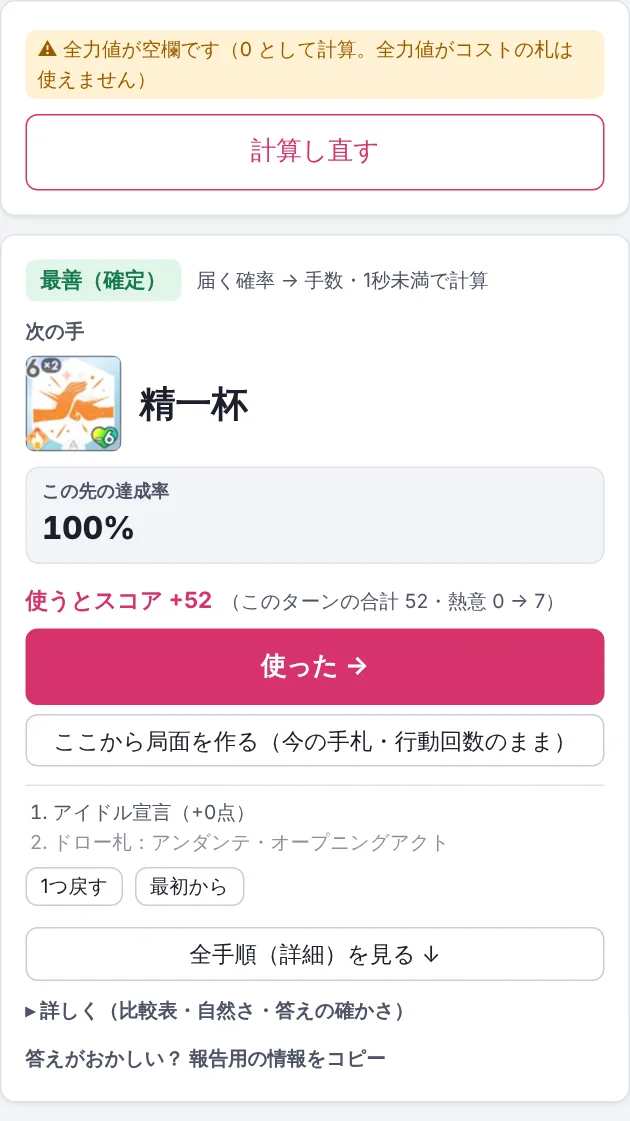
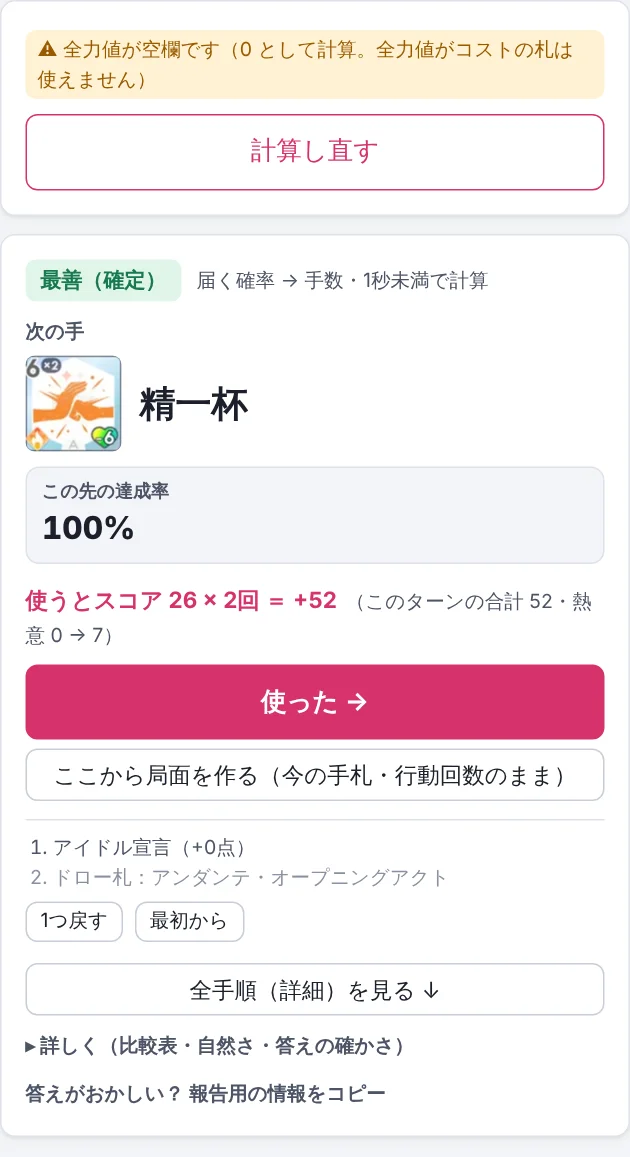
Solitaire Lab 1.14.4

diff --git a/js/answer.js b/js/answer.js
@@ -165,13 +165,7 @@ function resultView(R, rerender, {checkList} = {}) {
         R.setup && deck()?.id === R.deckId && h('button.big.pri.wide', {disabled: making, onclick: () => makePhase(R, steps, rerender, false)}, making ? '作っています…' : '次のターンの局面を作る →'),
         makeErr && h('p.warnline', '作れませんでした：' + makeErr));
     } else if (waiting) {
-      if (node.edges.length > 6 && node.edges.some(e => e.drawn.length >= 2)) add(...drawPicker(node, push, steps.length, rerender));
-      else add(h('div.lbl', '何を引きましたか？'),
-        h('p.hint', '使った後の手札（色の枠＝ドロー札）'),
-        h('div.draws', node.edges.map((e, i) => h('button.drawbtn', {onclick: () => push({type: 'draw', i, label: drawnText(e.drawn)})},
-          h('div.dpics', (e.hand || e.drawn).slice(0, 6).map(x => h('span.hcard', {class: x.isNew !== false ? 'new' : 'old'}, pic('cards', x.id, x.name, 34)))),
-          h('b', drawnText(e.drawn)),
-          e.hand && h('span.handtxt', '手札：' + e.hand.map(x => x.name).join('・'))))));
+      add(...drawPicker(node, push, steps.length, rerender));   // いつも1枚ずつ選ぶ（1.14.4、利用者の決定。前は組み合わせが7通り以上のときだけで、それ以外は手札の一覧）
     } else {
       if (steps.length) add(h('div.lbl', '次の手'), h('div.nmain', {}, node.icon ? pic(node.icon.kind, node.icon.id, node.act, 64) : null, h('div.ntext', node.act)),
         h('div.kpis', {}, kpi('この先の達成率', pct(node.p))));
@@ -234,7 +228,7 @@ function drawPicker(node, push, key, rerender) {
     h('p.hint', pick.ids.length ? `${pick.ids.length + 1}枚目は？（順は関係ありません）` : '引いた札を1枚ずつ選んでください（順は関係ありません）'),
     pick.ids.length ? h('div.row.picked', {}, h('span', '選んだ札：' + pick.ids.map(id => names.get(id)).join('・')), h('button.mini', {onclick: () => { pick.ids.pop(); rerender(); }}, '1つ戻す')) : null,
     h('div.draws.chips', ids.map(id => h('button.drawbtn', {onclick: () => choose(id)}, pic('cards', id, names.get(id), 40), h('b', names.get(id))))),
-    ...exact.map(c => h('button.wide', {onclick: () => go(c)}, c.e.drawn.length ? `これで全部（${drawnText(c.e.drawn)}）` : 'ドロー札なし'))];
+    ...exact.map(c => h('button.wide', {onclick: () => go(c)}, (c.e.drawn.length ? `これで全部（${drawnText(c.e.drawn)}）` : 'ドロー札なし') + (exact.length > 1 && c.e.hand ? `　手札：${c.e.hand.map(x => x.name).join('・')}` : '')))];
 }
 
 // もう一方の答えの1行。押すと主の答えと入れ替える（局面・予算などの共通の項目は残す）

diff --git a/manual/index.html b/manual/index.html
@@ -51,7 +51,7 @@
 <section class="slide cover">
   <h1>Solitaire Lab 詳細マニュアル</h1>
   <div class="sub">学園アイドルマスターの「ソリティア」で、<br>どの順番で札を使えば目標点に届きやすいかを教えてくれるツールです。</div>
-  <div class="ver">版 1.14.3 ・ ← → キー、または画面の左右を押してページをめくります</div>
+  <div class="ver">版 1.14.4 ・ ← → キー、または画面の左右を押してページをめくります</div>
 </section>
 
 <section class="slide">
@@ -259,7 +259,7 @@
       <li>次の手の下に「<b>使うとスコア</b>」（例：23,370 × 5回 ＝ +116,850）が出ます。ゲームの点と見比べられます。</li>
       <li>ゲームで、表示された札を使います。</li>
       <li>「<b>使った</b>」を押します（ドリンクは「飲んだ」）。</li>
-      <li>札を引いたときは「何を引きましたか？」と表示されます。1枚引いたときは、ゲームの手札と同じものを選びます（新しく来た札には色の枠）。2枚以上引いて組み合わせが多いときは、引いた札を1枚ずつ選びます（順は関係ありません）。</li>
+      <li>札を引いたときは「何を引きましたか？」と表示されます。引いた札を1枚ずつ選びます（順は関係ありません。1つに決まると自動で次へ進みます）。</li>
       <li>次の手が表示されます。これをくり返します。</li>
     </ol>
     <div class="tip">ヒント：押し間違えたときは「1つ戻す」を押します。ゲームと違うことが起きたときは、状態を入力し直して計算してください。</div>

diff --git a/manual/summary.html b/manual/summary.html
@@ -52,7 +52,7 @@
 <section class="slide cover">
   <h1>Solitaire Lab</h1>
   <div class="sub">学園アイドルマスターの「ソリティア」で、<br>どの順番で札を使えば目標点に届きやすいかを教えてくれるツールです。</div>
-  <div class="ver">概要 ・ 版 1.14.3 ・ くわしい使い方は「詳細マニュアル」をご覧ください</div>
+  <div class="ver">概要 ・ 版 1.14.4 ・ くわしい使い方は「詳細マニュアル」をご覧ください</div>
 </section>
 
 <section class="slide">
